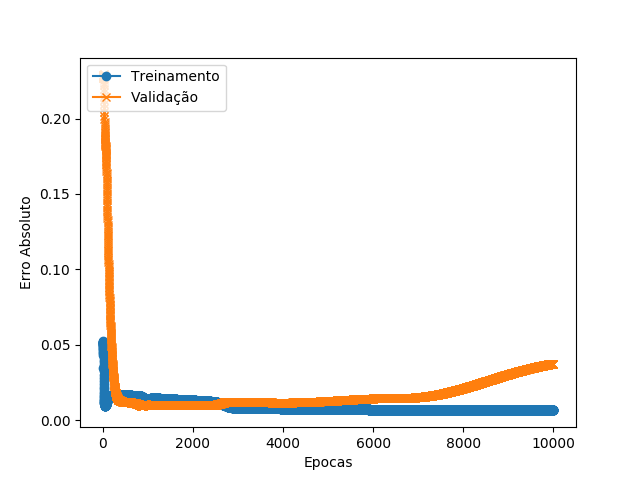
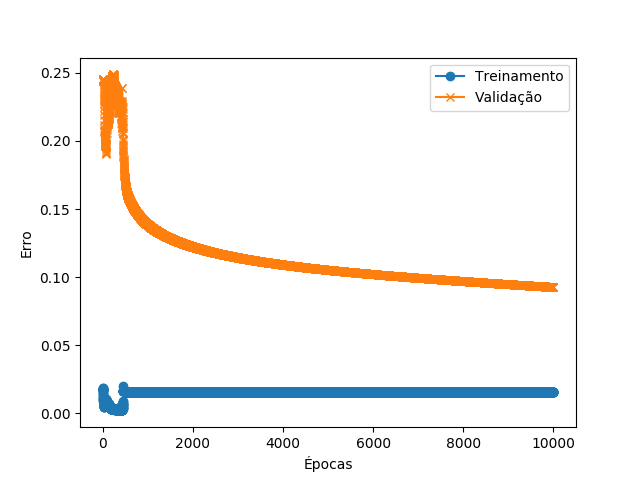
Versionando execução de rede com taxa de aprendizado igual a 0.5 e 10000 épocas.

diff --git a/Rede.py b/Rede.py
@@ -11,7 +11,7 @@ import pandas as pd
 class Rede(object):
   TAMANHO_MINIMO_CAMADAS = 2
   INDEX_CAMADA_ENTRADA = 0
-  TAXA_APRENDIZADO = 0.05
+  TAXA_APRENDIZADO = 0.5
   BIAS = [1]
   
   def __init__(self, entradas_treino, saidas_treino, neuronios_por_camada=[]):
@@ -171,12 +171,12 @@ if __name__ == "__main__":
    epocas = 10000
    erros_treinamento, erros_validacao = rede.treinar(epocas, entradas_validacao, saidas_validacao)
    
-   plt.xlabel("Epocas")
-   plt.ylabel("Erro Absoluto")
+   plt.xlabel("Épocas")
+   plt.ylabel("Erro")
   
    plt.plot(np.arange(epocas) + 1, erros_treinamento, '-o')
    plt.plot(np.arange(epocas) + 1, erros_validacao, '-x')
-   plt.legend(['Treinamento', 'Validação'], loc='upper left')
+   plt.legend(['Treinamento', 'Validação'], loc='upper right')
    plt.savefig('epocas-%d.png' % (epocas))
    
    saidas_obtidas = []
